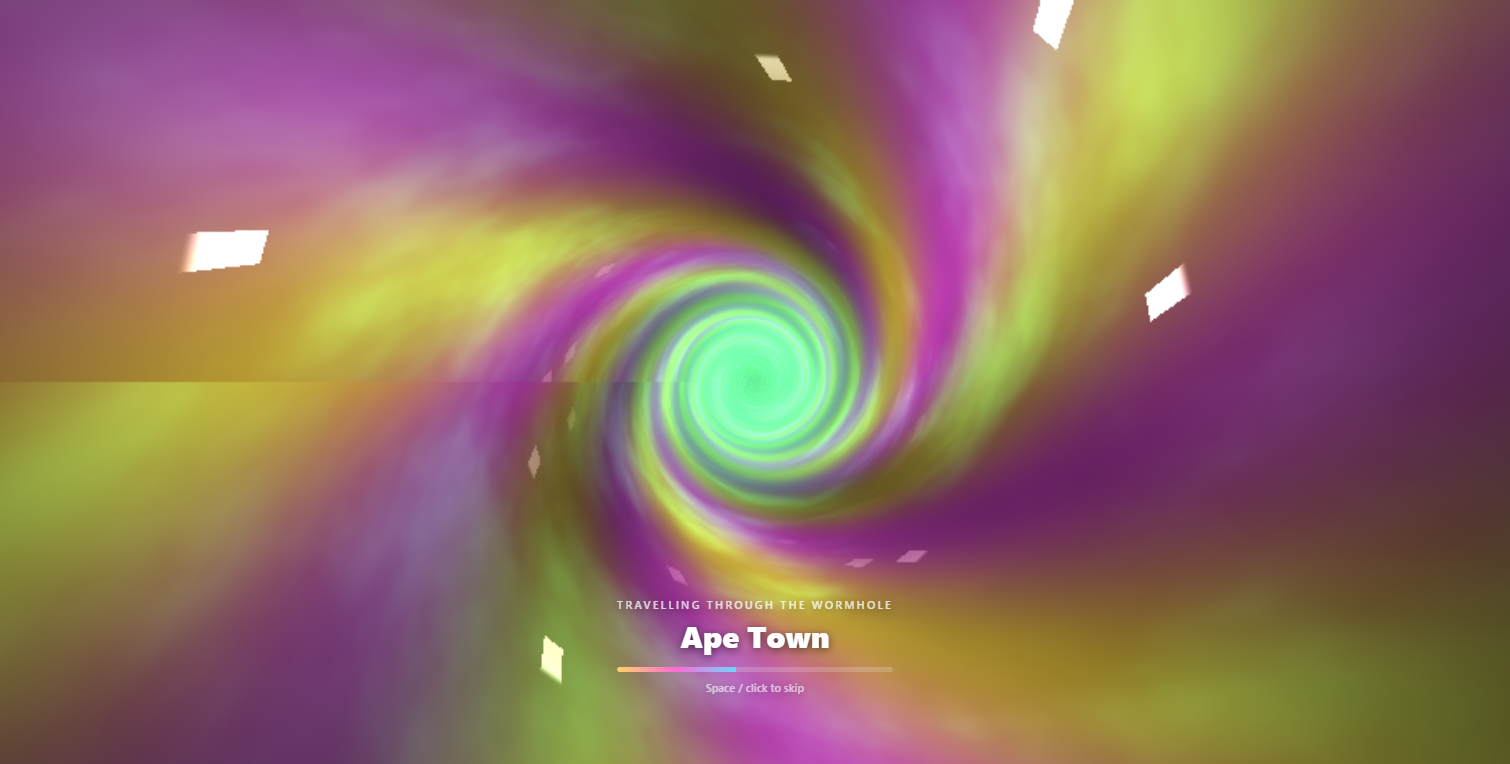
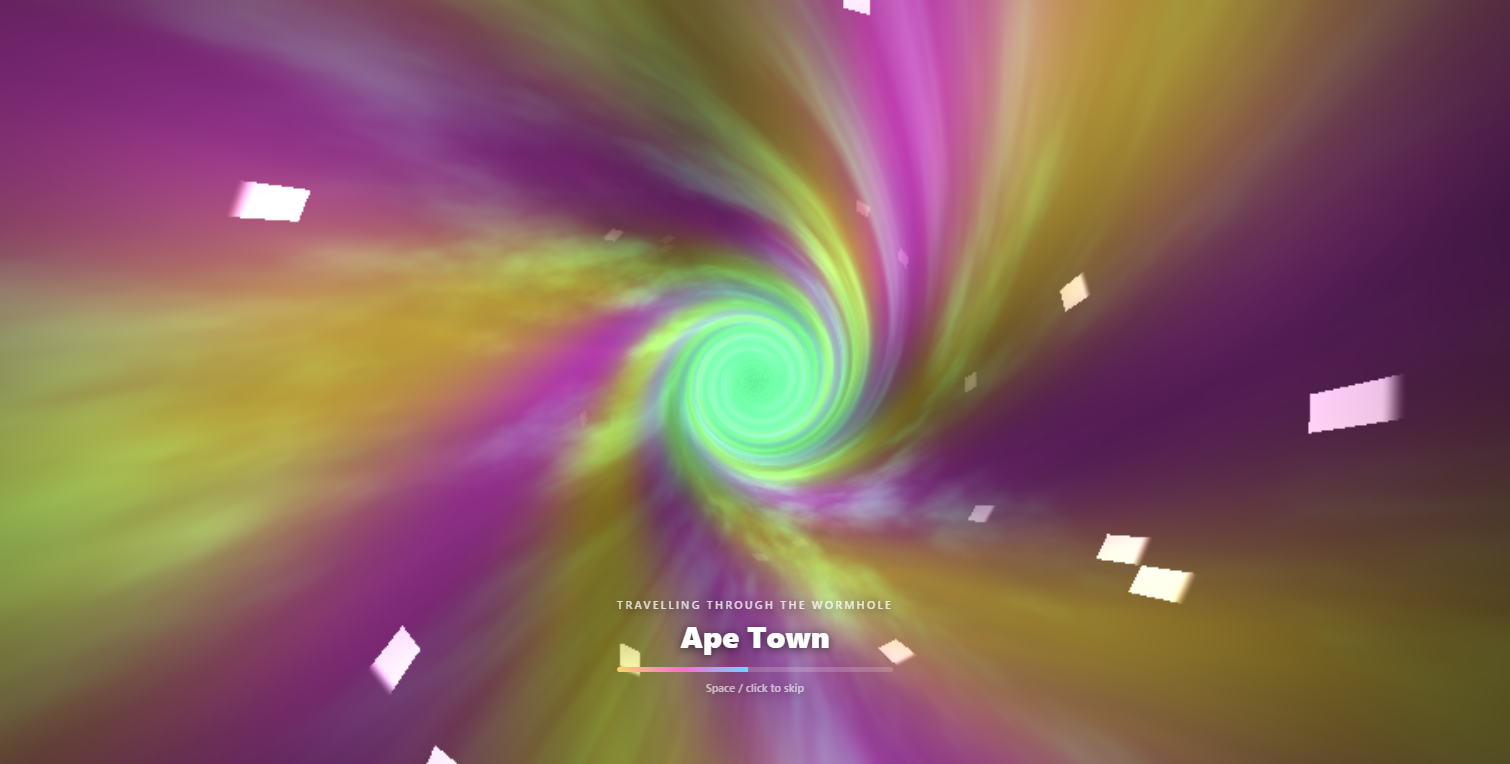
3.0: wormhole - seamless spiral noise (sampled on a circle); suite_worm 20/20

diff --git a/js/lw_wormhole.js b/js/lw_wormhole.js
@@ -32,7 +32,8 @@ void main(){vec2 uv=(gl_FragCoord.xy-.5*r)/r.y;float rad=length(uv)+1e-3,ang=ata
  float z=.35/rad+t*sp;            /* depth along the tunnel */
  float tw=ang/6.2831853+z*.18+.15*sin(z*.7);   /* spiral twist */
  float s1=.5+.5*sin(6.2831853*(tw*5.)+z*1.3), s2=.5+.5*sin(6.2831853*(tw*3.-z*.21)+2.);
- float cl=fb(vec2(tw*6.,z*.9));  float org=smoothstep(.35,.95,fb(vec2(tw*10.+z*.3,z*2.)));
+ float a2=6.2831853*tw; vec2 ring=vec2(cos(a2),sin(a2));   /* noise sampled on a circle: no seam where the angle wraps */
+ float cl=fb(ring*2.2+vec2(z*.9,z*.37));  float org=smoothstep(.35,.95,fb(ring*3.4+vec2(z*.3+3.,z*2.)));
  vec3 col=mix(cA,cB,s1); col=mix(col,cD,.55*cl); col+=cC*org*.55; col*=.55+.45*s2;
  float st=step(.985,h(floor(vec2(tw*90.,z*14.))))*smoothstep(.0,.25,fract(z*14.));   /* star streaks */
  col+=vec3(st)*.8*smoothstep(.15,.6,rad);
